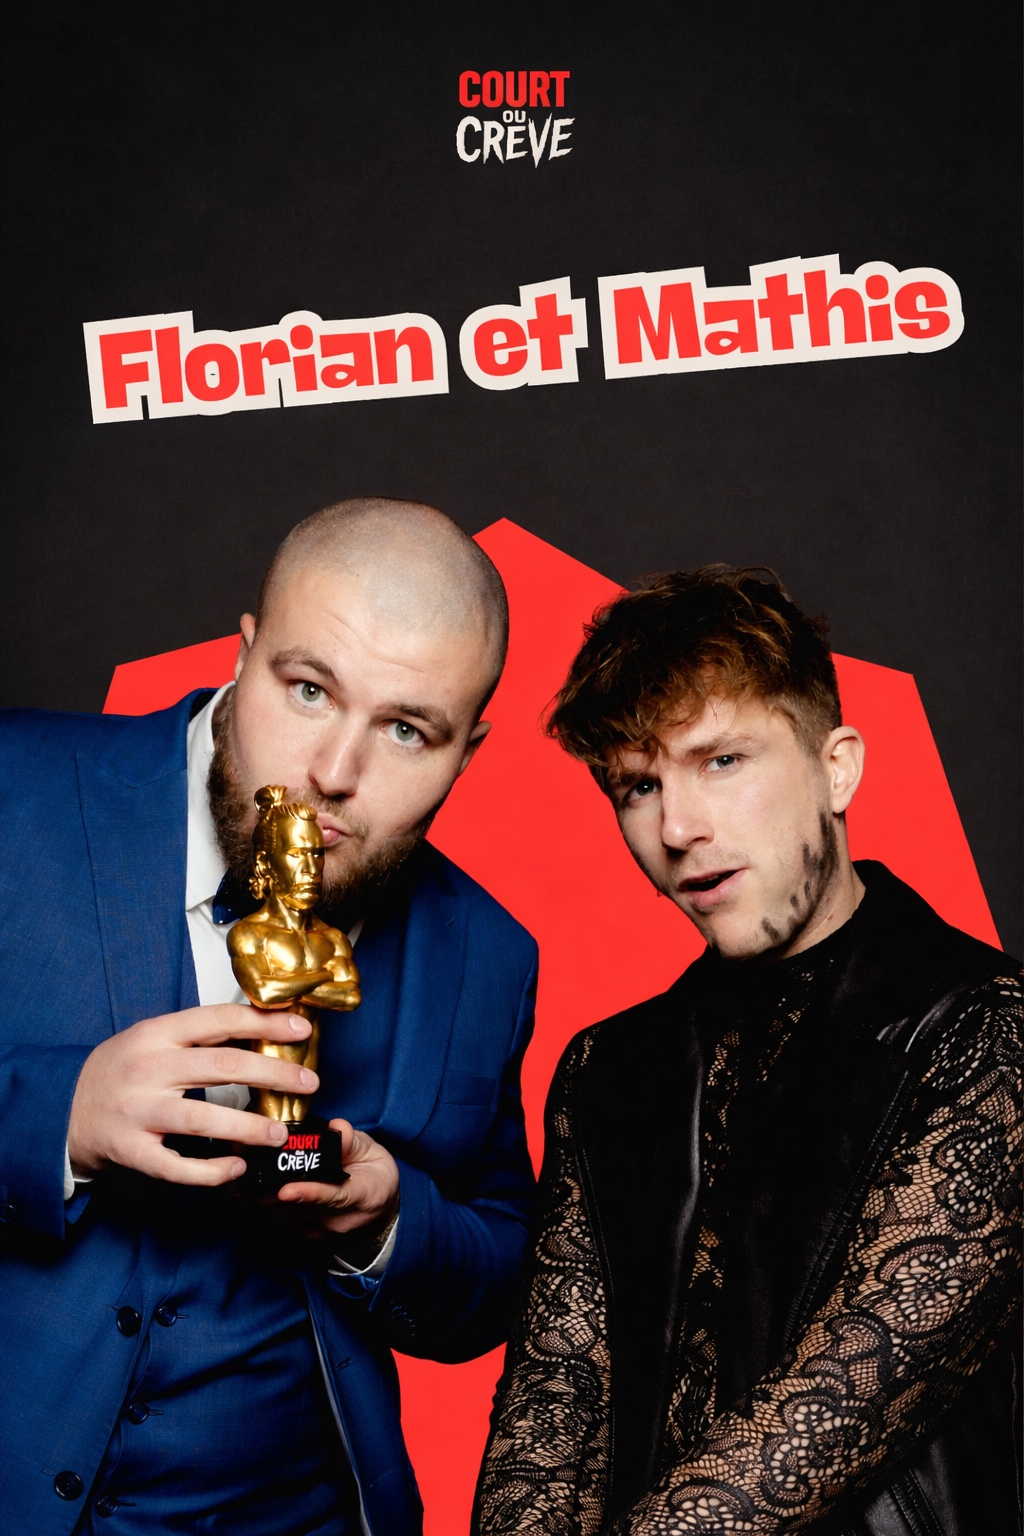
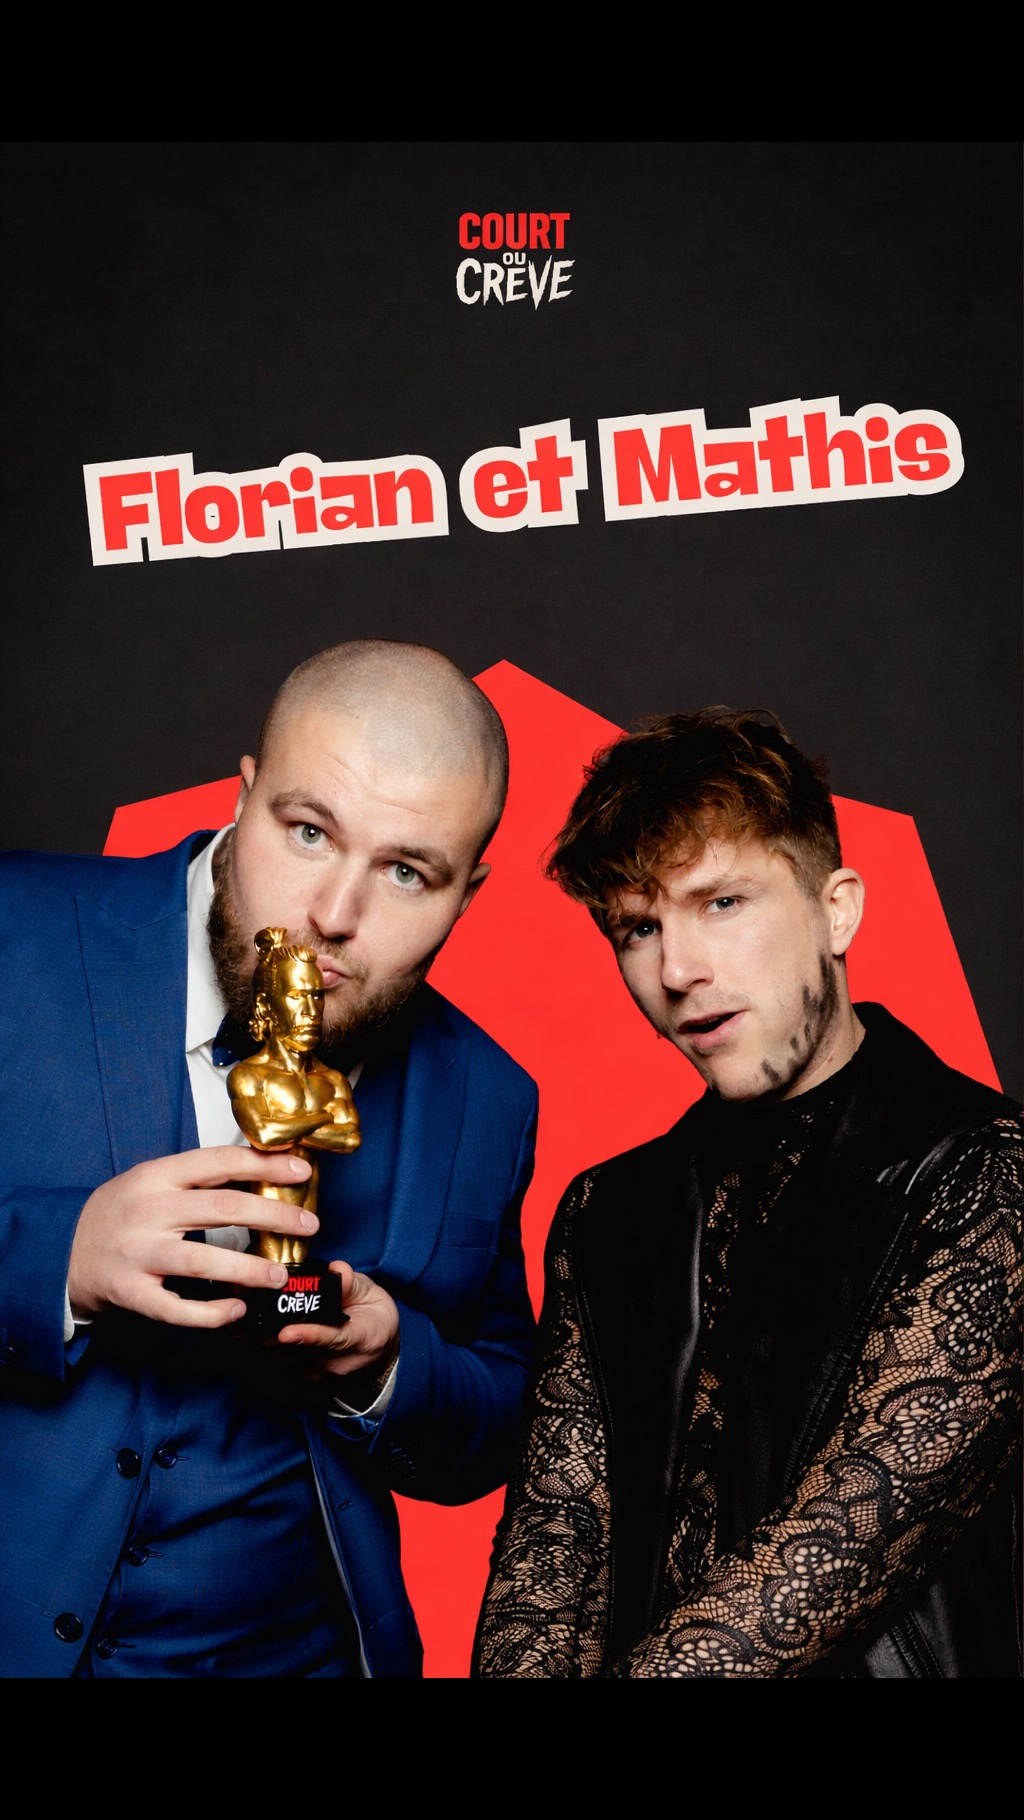
Poster 9:16 + Effet Film/Cinéma sur poster
- Poster : 1024x1820 (format 9:16 = ratio vidéo)
- Aspect-ratio CSS : 9/16 (poster et vidéo identiques)
- Effet Film/Cinéma quand pas en lecture :
  • Vignette radiale (bords sombres)
  • Scanlines horizontales subtiles
  • Grain de film léger
- Effet disparaît quand vidéo joue
- Plus de crop vidéo/poster ✅

diff --git a/index.html b/index.html
@@ -1910,7 +1910,42 @@
       border-radius: 12px;
       overflow: hidden;
       cursor: pointer;
-      aspect-ratio: 2 / 3; /* Format poster Florian et Mathis (1024x1536) */
+      aspect-ratio: 9 / 16; /* Format poster et vidéo identiques (9:16 portrait) */
+    }
+
+    /* Effet Film/Cinéma sur le poster (avant play) */
+    .gallery-main:not(.playing)::before {
+      content: '';
+      position: absolute;
+      top: 0;
+      left: 0;
+      right: 0;
+      bottom: 0;
+      pointer-events: none;
+      z-index: 1;
+
+      /* Vignette + Grain + Scanlines */
+      background:
+        /* Vignette radiale */
+        radial-gradient(ellipse at center, transparent 0%, rgba(0,0,0,0.3) 100%),
+        /* Scanlines horizontales */
+        repeating-linear-gradient(
+          0deg,
+          rgba(0, 0, 0, 0.03),
+          rgba(0, 0, 0, 0.03) 1px,
+          transparent 1px,
+          transparent 2px
+        ),
+        /* Grain de film (pattern) */
+        repeating-conic-gradient(from 0deg, transparent 0deg 90deg, rgba(255,255,255,0.02) 90deg 180deg) 0 0 / 3px 3px;
+
+      opacity: 1;
+      transition: opacity 0.4s ease;
+    }
+
+    /* Effet disparaît quand vidéo joue */
+    .gallery-main.playing::before {
+      opacity: 0;
     }
 
     .gallery-main video {
